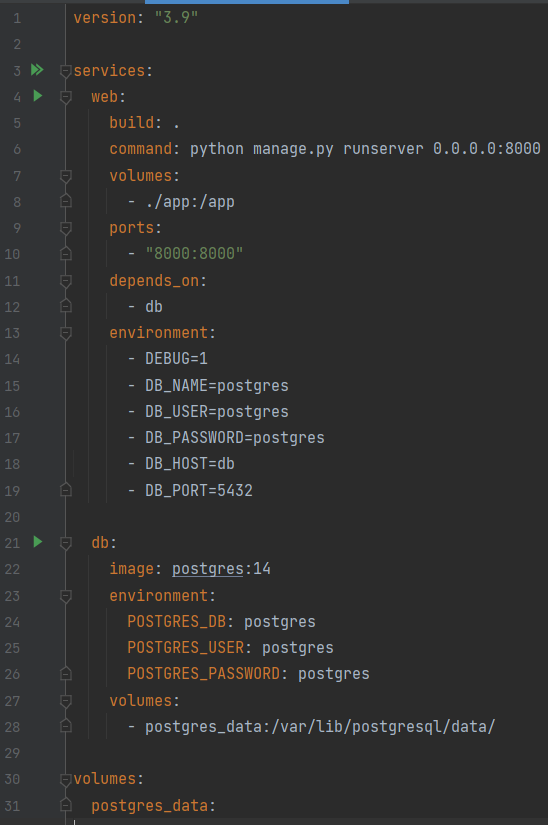
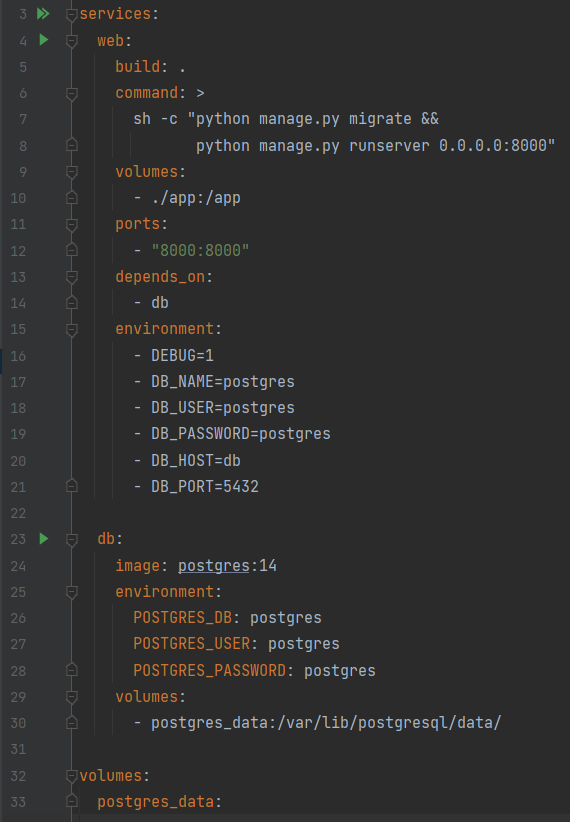
fix: change report according to docker compose changes

diff --git a/README.md b/README.md
@@ -42,22 +42,22 @@
 
 خط 5: تعیین میکند که image مربوط به این کانتینر در DockerFileای که ساختیم آمده است.
 
-خط 6: دستور شروع برنامه را مشخص میکند.
+خط 6: دستورات جنگو برای شروع برنامه را مشخص میکند.
 
-خط 7: فایلهای کد سیستم لوکال و داکر را به هم متصل میکند. طوری که با بهروزرسانی کد برنامه کد داخل کانتینر نیز بهروز شود.
+خط 9: فایلهای کد سیستم لوکال و داکر را به هم متصل میکند. طوری که با بهروزرسانی کد برنامه کد داخل کانتینر نیز بهروز شود.
 
-خط 9: پورت ۸۰۰۰ کانتینر را به پورت ۸۰۰۰ سیستم لوکال متصل میکند.
+خط 11: پورت ۸۰۰۰ کانتینر را به پورت ۸۰۰۰ سیستم لوکال متصل میکند.
 
-خط 11: تعیین میکند که این کانتینر به کانتینر بعدی وابسته است.
+خط 13: تعیین میکند که این کانتینر به کانتینر بعدی وابسته است.
 
-خط 13: environment variableهایی که برنامه به آنها نیاز دارد را تعیین میکند. برای مثال مشخصات پایگاه داده در آن تعیین شدهاند.
+خط 15: environment variableهایی که برنامه به آنها نیاز دارد را تعیین میکند. برای مثال مشخصات پایگاه داده در آن تعیین شدهاند.
 
 #### db
 این سرویس دیتابیس postgresql است.
 
-خط 22: image مربوط به این کانتینر مشخص شده است.
+خط 24: image مربوط به این کانتینر مشخص شده است.
 
-خط 23: environment variableهایی مانند نام و رمز پایگاه دادهای که ساخته میشود مشخص شدهاند.
+خط 25: environment variableهایی مانند نام و رمز پایگاه دادهای که ساخته میشود مشخص شدهاند.
 
-خط 27 تا 31: یک پوشه در سیستم لوکال را به یک پوشه در کانتینر متصل میکند. این موضوع باعث میشود که هر بار با پایین رفتن داکر تمام دادهها از دست نروند.
+خط 29 تا 33: یک پوشه در سیستم لوکال را به یک پوشه در کانتینر متصل میکند. این موضوع باعث میشود که هر بار با پایین رفتن داکر تمام دادهها از دست نروند.
 
